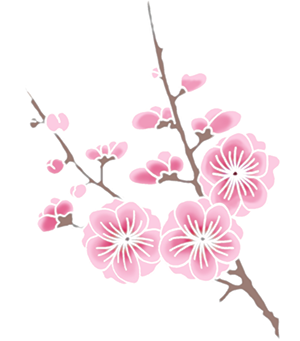
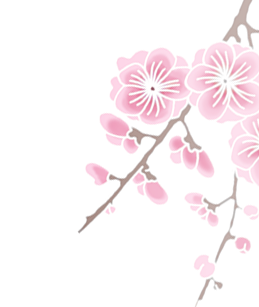
offest images fixed homepage complete

diff --git a/BrightenCommunities/Content/Site.min.css b/BrightenCommunities/Content/Site.min.css
@@ -1,1 +1,1 @@
-@font-face{font-family:'permanent_markerregular';src:url("fonts/permanentmarker-regular-webfont.woff2") format("woff2"),url("fonts/permanentmarker-regular-webfont.woff") format("woff");font-weight:normal;font-style:normal;}@font-face{font-family:'amatic_scregular';src:url("fonts/amaticsc-regular-webfont.woff2") format("woff2"),url("fonts/amaticsc-regular-webfont.woff") format("woff");font-weight:normal;font-style:normal;}@font-face{font-family:'titilliumregular';src:url("fonts/titillium-regular-webfont.woff2") format("woff2"),url("fonts/titillium-regular-webfont.woff") format("woff");font-weight:normal;font-style:normal;}#header .banner{position:relative;background-image:url("images/header-bg.png");background-repeat:no-repeat;background-size:cover;width:100%;height:300px;margin-top:-50px;}#header .sun{position:absolute;left:-5%;top:-35%;}#header .banner-text{position:absolute;top:0;right:3%;}@media(min-width:1024px) and (max-width:1200px){#header .banner-text{right:13%;}}@media(max-width:480px){#header .banner-text{right:-1.5%;margin-top:45px;}}#header .banner-text h1{font-size:72px;font-family:"permanent_markerregular",cursive;}@media(max-width:480px){#header .banner-text h1{font-size:13vw;}}#header .banner-text h1 span{padding-left:45px;}#header .banner-text h3{padding-left:115px;font-size:45px;font-family:"permanent_markerregular",cursive;}@media(max-width:480px){#header .banner-text h3{padding-left:70px;font-size:11vw;}}#header .banner-text h3 span{padding-left:65px;}@font-face{font-family:'permanent_markerregular';src:url("fonts/permanentmarker-regular-webfont.woff2") format("woff2"),url("fonts/permanentmarker-regular-webfont.woff") format("woff");font-weight:normal;font-style:normal;}@font-face{font-family:'amatic_scregular';src:url("fonts/amaticsc-regular-webfont.woff2") format("woff2"),url("fonts/amaticsc-regular-webfont.woff") format("woff");font-weight:normal;font-style:normal;}@font-face{font-family:'titilliumregular';src:url("fonts/titillium-regular-webfont.woff2") format("woff2"),url("fonts/titillium-regular-webfont.woff") format("woff");font-weight:normal;font-style:normal;}.col-centered{display:block;margin:0 auto;float:none;}.relative{position:relative;}h2,h3{font-size:52px;font-family:"amatic_scregular";}.no-padding{padding:0;}.centerBlock{display:table;margin:auto;}.m-top-25{margin-top:25px;}body::-webkit-scrollbar{width:1em;}body::-webkit-scrollbar-track{-webkit-box-shadow:inset 0 0 6px rgba(0,0,0,.3);}body::-webkit-scrollbar-thumb{background-color:#a9a9a9;outline:1px solid #708090;}@font-face{font-family:'permanent_markerregular';src:url("fonts/permanentmarker-regular-webfont.woff2") format("woff2"),url("fonts/permanentmarker-regular-webfont.woff") format("woff");font-weight:normal;font-style:normal;}@font-face{font-family:'amatic_scregular';src:url("fonts/amaticsc-regular-webfont.woff2") format("woff2"),url("fonts/amaticsc-regular-webfont.woff") format("woff");font-weight:normal;font-style:normal;}@font-face{font-family:'titilliumregular';src:url("fonts/titillium-regular-webfont.woff2") format("woff2"),url("fonts/titillium-regular-webfont.woff") format("woff");font-weight:normal;font-style:normal;}@font-face{font-family:'permanent_markerregular';src:url("fonts/permanentmarker-regular-webfont.woff2") format("woff2"),url("fonts/permanentmarker-regular-webfont.woff") format("woff");font-weight:normal;font-style:normal;}@font-face{font-family:'amatic_scregular';src:url("fonts/amaticsc-regular-webfont.woff2") format("woff2"),url("fonts/amaticsc-regular-webfont.woff") format("woff");font-weight:normal;font-style:normal;}@font-face{font-family:'titilliumregular';src:url("fonts/titillium-regular-webfont.woff2") format("woff2"),url("fonts/titillium-regular-webfont.woff") format("woff");font-weight:normal;font-style:normal;}@font-face{font-family:'permanent_markerregular';src:url("fonts/permanentmarker-regular-webfont.woff2") format("woff2"),url("fonts/permanentmarker-regular-webfont.woff") format("woff");font-weight:normal;font-style:normal;}@font-face{font-family:'amatic_scregular';src:url("fonts/amaticsc-regular-webfont.woff2") format("woff2"),url("fonts/amaticsc-regular-webfont.woff") format("woff");font-weight:normal;font-style:normal;}@font-face{font-family:'titilliumregular';src:url("fonts/titillium-regular-webfont.woff2") format("woff2"),url("fonts/titillium-regular-webfont.woff") format("woff");font-weight:normal;font-style:normal;}.col-centered{display:block;margin:0 auto;float:none;}.relative{position:relative;}h2,h3{font-size:52px;font-family:"amatic_scregular";}.no-padding{padding:0;}.centerBlock{display:table;margin:auto;}.m-top-25{margin-top:25px;}body::-webkit-scrollbar{width:1em;}body::-webkit-scrollbar-track{-webkit-box-shadow:inset 0 0 6px rgba(0,0,0,.3);}body::-webkit-scrollbar-thumb{background-color:#a9a9a9;outline:1px solid #708090;}nav ul{padding-top:0;font-family:"amatic_scregular";list-style-type:none;font-weight:bold;}nav ul li{font-size:40px;}nav ul li a{color:#000;}nav ul li a:hover{color:#000;}.navbar-inverse{background-color:transparent;border-bottom:none;}.menu-open{height:9999px;overflow:hidden;}.menu-open nav{-webkit-transform:translateX(0);transform:translateX(0);}.menu{-webkit-transition:.1s -webkit-transform linear;transition:.1s -webkit-transform linear;transition:.1s transform linear;transition:.1s transform linear,.1s -webkit-transform linear;position:relative;background:0;float:left;margin:1rem;height:2.7rem;width:3.5rem;z-index:1;outline:0;padding:0;border:0;cursor:pointer;}nav{width:100%;height:100%;background:#fff;position:fixed;-webkit-transform:translateX(-9999px);transform:translateX(-9999px);-webkit-transition:-webkit-transform .6s cubic-bezier(.56,.1,.34,.91);transition:-webkit-transform .6s cubic-bezier(.56,.1,.34,.91);transition:transform .6s cubic-bezier(.56,.1,.34,.91);transition:transform .6s cubic-bezier(.56,.1,.34,.91),-webkit-transform .6s cubic-bezier(.56,.1,.34,.91);padding-top:6.2rem;}.bar,.bar::before,.bar::after{-webkit-transition:.2s background linear .1s,.2s top linear .2s,.2s -webkit-transform linear;transition:.2s background linear .1s,.2s top linear .2s,.2s -webkit-transform linear;transition:.2s background linear .1s,.2s top linear .2s,.2s transform linear;transition:.2s background linear .1s,.2s top linear .2s,.2s transform linear,.2s -webkit-transform linear;position:absolute;background:#000;margin:auto;width:100%;height:.5rem;content:'';top:50%;left:0;}.bar{margin-top:1.2rem;width:55px;}.bar::before{top:-2rem;}.bar::after{top:2rem;}.bar::before,.bar::after{-webkit-transform:rotate(0deg);transform:rotate(0deg);}.active .bar{background:0;}.active .bar::before{-webkit-transform:rotate(45deg);transform:rotate(45deg);}.active .bar::after{-webkit-transform:rotate(-45deg);transform:rotate(-45deg);}.active .bar::before,.active .bar::after{top:0;}.active .bar,.active .bar::before,.active .bar::after{-webkit-transition:.4s background linear .1s,.2s top linear,.2s -webkit-transform linear .2s;transition:.4s background linear .1s,.2s top linear,.2s -webkit-transform linear .2s;transition:.4s background linear .1s,.2s top linear,.2s transform linear .2s;transition:.4s background linear .1s,.2s top linear,.2s transform linear .2s,.2s -webkit-transform linear .2s;}@font-face{font-family:'permanent_markerregular';src:url("fonts/permanentmarker-regular-webfont.woff2") format("woff2"),url("fonts/permanentmarker-regular-webfont.woff") format("woff");font-weight:normal;font-style:normal;}@font-face{font-family:'amatic_scregular';src:url("fonts/amaticsc-regular-webfont.woff2") format("woff2"),url("fonts/amaticsc-regular-webfont.woff") format("woff");font-weight:normal;font-style:normal;}@font-face{font-family:'titilliumregular';src:url("fonts/titillium-regular-webfont.woff2") format("woff2"),url("fonts/titillium-regular-webfont.woff") format("woff");font-weight:normal;font-style:normal;}footer{background-image:url("images/grass.png");background-repeat:no-repeat;background-size:cover;width:100%;height:175px;font-family:"titilliumregular";}footer .offset-bottom{bottom:-80%;}.btn.btn-primary{color:#000;background:#fff;border-color:#ccc;}.the-vision{margin-top:25px;}.cleaning{margin-top:25px;}.cleaning .pic-content{margin-top:25px;}.cleaning .pic-content img{width:100%;}.the-mission{margin-top:25px;}.form-horizontal{margin:10px !important;}.modal-content{width:500px;}.modal-content .close{margin:10px;color:#000;opacity:1;font-size:24px;}@font-face{font-family:'permanent_markerregular';src:url("fonts/permanentmarker-regular-webfont.woff2") format("woff2"),url("fonts/permanentmarker-regular-webfont.woff") format("woff");font-weight:normal;font-style:normal;}@font-face{font-family:'amatic_scregular';src:url("fonts/amaticsc-regular-webfont.woff2") format("woff2"),url("fonts/amaticsc-regular-webfont.woff") format("woff");font-weight:normal;font-style:normal;}@font-face{font-family:'titilliumregular';src:url("fonts/titillium-regular-webfont.woff2") format("woff2"),url("fonts/titillium-regular-webfont.woff") format("woff");font-weight:normal;font-style:normal;}.col-centered{display:block;margin:0 auto;float:none;}.relative{position:relative;}h2,h3{font-size:52px;font-family:"amatic_scregular";}.no-padding{padding:0;}.centerBlock{display:table;margin:auto;}.m-top-25{margin-top:25px;}body::-webkit-scrollbar{width:1em;}body::-webkit-scrollbar-track{-webkit-box-shadow:inset 0 0 6px rgba(0,0,0,.3);}body::-webkit-scrollbar-thumb{background-color:#a9a9a9;outline:1px solid #708090;}.blog-label{font-weight:bold;color:#000;border-top:none;margin-bottom:25px;}.blog div{border-top:solid #ccc 1px;padding:25px 0;}.offset-right-cherry-blossom{position:relative;}.offset-right-cherry-blossom .cherry-blossom{position:absolute;right:-212px;top:-190px;z-index:-1;}@media(max-width:480px){.offset-right-cherry-blossom .cherry-blossom{display:none;}}.offset-left-tulip{position:relative;}.offset-left-tulip .tulip{position:absolute;left:-142px;top:0;z-index:-1;}@media(max-width:480px){.offset-left-tulip .tulip{display:none;}}body{padding-top:50px;padding-bottom:20px;}.body-content{padding-left:15px;padding-right:15px;font-family:"titilliumregular";font-size:18px;overflow:hidden;}.dl-horizontal dt{white-space:normal;}input,select,textarea{max-width:280px;}
+@font-face{font-family:'permanent_markerregular';src:url("fonts/permanentmarker-regular-webfont.woff2") format("woff2"),url("fonts/permanentmarker-regular-webfont.woff") format("woff");font-weight:normal;font-style:normal;}@font-face{font-family:'amatic_scregular';src:url("fonts/amaticsc-regular-webfont.woff2") format("woff2"),url("fonts/amaticsc-regular-webfont.woff") format("woff");font-weight:normal;font-style:normal;}@font-face{font-family:'titilliumregular';src:url("fonts/titillium-regular-webfont.woff2") format("woff2"),url("fonts/titillium-regular-webfont.woff") format("woff");font-weight:normal;font-style:normal;}#header .banner{position:relative;background-image:url("images/header-bg.png");background-repeat:no-repeat;background-size:cover;width:100%;height:300px;margin-top:-50px;}#header .sun{position:absolute;left:-5%;top:-35%;}@media(max-width:480px){#header .sun img{width:100%;}}#header .banner-text{position:absolute;top:0;right:3%;}@media(min-width:1024px) and (max-width:1200px){#header .banner-text{right:13%;}}@media(max-width:480px){#header .banner-text{right:-1.5%;margin-top:45px;}}#header .banner-text h1{font-size:72px;font-family:"permanent_markerregular",cursive;}@media(max-width:480px){#header .banner-text h1{font-size:13vw;}}#header .banner-text h1 span{padding-left:45px;}#header .banner-text h3{padding-left:115px;font-size:45px;font-family:"permanent_markerregular",cursive;}@media(max-width:480px){#header .banner-text h3{padding-left:70px;font-size:11vw;}}#header .banner-text h3 span{padding-left:65px;}@font-face{font-family:'permanent_markerregular';src:url("fonts/permanentmarker-regular-webfont.woff2") format("woff2"),url("fonts/permanentmarker-regular-webfont.woff") format("woff");font-weight:normal;font-style:normal;}@font-face{font-family:'amatic_scregular';src:url("fonts/amaticsc-regular-webfont.woff2") format("woff2"),url("fonts/amaticsc-regular-webfont.woff") format("woff");font-weight:normal;font-style:normal;}@font-face{font-family:'titilliumregular';src:url("fonts/titillium-regular-webfont.woff2") format("woff2"),url("fonts/titillium-regular-webfont.woff") format("woff");font-weight:normal;font-style:normal;}.col-centered{display:block;margin:0 auto;float:none;}.relative{position:relative;}h2,h3{font-size:52px;font-family:"amatic_scregular";}.no-padding{padding:0;}.centerBlock{display:table;margin:auto;}.m-top-25{margin-top:25px;}body::-webkit-scrollbar{width:1em;}body::-webkit-scrollbar-track{-webkit-box-shadow:inset 0 0 6px rgba(0,0,0,.3);}body::-webkit-scrollbar-thumb{background-color:#a9a9a9;outline:1px solid #708090;}@font-face{font-family:'permanent_markerregular';src:url("fonts/permanentmarker-regular-webfont.woff2") format("woff2"),url("fonts/permanentmarker-regular-webfont.woff") format("woff");font-weight:normal;font-style:normal;}@font-face{font-family:'amatic_scregular';src:url("fonts/amaticsc-regular-webfont.woff2") format("woff2"),url("fonts/amaticsc-regular-webfont.woff") format("woff");font-weight:normal;font-style:normal;}@font-face{font-family:'titilliumregular';src:url("fonts/titillium-regular-webfont.woff2") format("woff2"),url("fonts/titillium-regular-webfont.woff") format("woff");font-weight:normal;font-style:normal;}@font-face{font-family:'permanent_markerregular';src:url("fonts/permanentmarker-regular-webfont.woff2") format("woff2"),url("fonts/permanentmarker-regular-webfont.woff") format("woff");font-weight:normal;font-style:normal;}@font-face{font-family:'amatic_scregular';src:url("fonts/amaticsc-regular-webfont.woff2") format("woff2"),url("fonts/amaticsc-regular-webfont.woff") format("woff");font-weight:normal;font-style:normal;}@font-face{font-family:'titilliumregular';src:url("fonts/titillium-regular-webfont.woff2") format("woff2"),url("fonts/titillium-regular-webfont.woff") format("woff");font-weight:normal;font-style:normal;}@font-face{font-family:'permanent_markerregular';src:url("fonts/permanentmarker-regular-webfont.woff2") format("woff2"),url("fonts/permanentmarker-regular-webfont.woff") format("woff");font-weight:normal;font-style:normal;}@font-face{font-family:'amatic_scregular';src:url("fonts/amaticsc-regular-webfont.woff2") format("woff2"),url("fonts/amaticsc-regular-webfont.woff") format("woff");font-weight:normal;font-style:normal;}@font-face{font-family:'titilliumregular';src:url("fonts/titillium-regular-webfont.woff2") format("woff2"),url("fonts/titillium-regular-webfont.woff") format("woff");font-weight:normal;font-style:normal;}.col-centered{display:block;margin:0 auto;float:none;}.relative{position:relative;}h2,h3{font-size:52px;font-family:"amatic_scregular";}.no-padding{padding:0;}.centerBlock{display:table;margin:auto;}.m-top-25{margin-top:25px;}body::-webkit-scrollbar{width:1em;}body::-webkit-scrollbar-track{-webkit-box-shadow:inset 0 0 6px rgba(0,0,0,.3);}body::-webkit-scrollbar-thumb{background-color:#a9a9a9;outline:1px solid #708090;}nav ul{padding-top:0;font-family:"amatic_scregular";list-style-type:none;font-weight:bold;}nav ul li{font-size:40px;}nav ul li a{color:#000;}nav ul li a:hover{color:#000;}.navbar-inverse{background-color:transparent;border-bottom:none;}.menu-open{height:9999px;overflow:hidden;}.menu-open nav{-webkit-transform:translateX(0);transform:translateX(0);}.menu{-webkit-transition:.1s -webkit-transform linear;transition:.1s -webkit-transform linear;transition:.1s transform linear;transition:.1s transform linear,.1s -webkit-transform linear;position:relative;background:0;float:left;margin:1rem;height:2.7rem;width:3.5rem;z-index:1;outline:0;padding:0;border:0;cursor:pointer;}nav{width:100%;height:100%;background:#fff;position:fixed;-webkit-transform:translateX(-9999px);transform:translateX(-9999px);-webkit-transition:-webkit-transform .6s cubic-bezier(.56,.1,.34,.91);transition:-webkit-transform .6s cubic-bezier(.56,.1,.34,.91);transition:transform .6s cubic-bezier(.56,.1,.34,.91);transition:transform .6s cubic-bezier(.56,.1,.34,.91),-webkit-transform .6s cubic-bezier(.56,.1,.34,.91);padding-top:6.2rem;}.bar,.bar::before,.bar::after{-webkit-transition:.2s background linear .1s,.2s top linear .2s,.2s -webkit-transform linear;transition:.2s background linear .1s,.2s top linear .2s,.2s -webkit-transform linear;transition:.2s background linear .1s,.2s top linear .2s,.2s transform linear;transition:.2s background linear .1s,.2s top linear .2s,.2s transform linear,.2s -webkit-transform linear;position:absolute;background:#000;margin:auto;width:100%;height:.5rem;content:'';top:50%;left:0;}.bar{margin-top:1.2rem;width:55px;}.bar::before{top:-2rem;}.bar::after{top:2rem;}.bar::before,.bar::after{-webkit-transform:rotate(0deg);transform:rotate(0deg);}.active .bar{background:0;}.active .bar::before{-webkit-transform:rotate(45deg);transform:rotate(45deg);}.active .bar::after{-webkit-transform:rotate(-45deg);transform:rotate(-45deg);}.active .bar::before,.active .bar::after{top:0;}.active .bar,.active .bar::before,.active .bar::after{-webkit-transition:.4s background linear .1s,.2s top linear,.2s -webkit-transform linear .2s;transition:.4s background linear .1s,.2s top linear,.2s -webkit-transform linear .2s;transition:.4s background linear .1s,.2s top linear,.2s transform linear .2s;transition:.4s background linear .1s,.2s top linear,.2s transform linear .2s,.2s -webkit-transform linear .2s;}@font-face{font-family:'permanent_markerregular';src:url("fonts/permanentmarker-regular-webfont.woff2") format("woff2"),url("fonts/permanentmarker-regular-webfont.woff") format("woff");font-weight:normal;font-style:normal;}@font-face{font-family:'amatic_scregular';src:url("fonts/amaticsc-regular-webfont.woff2") format("woff2"),url("fonts/amaticsc-regular-webfont.woff") format("woff");font-weight:normal;font-style:normal;}@font-face{font-family:'titilliumregular';src:url("fonts/titillium-regular-webfont.woff2") format("woff2"),url("fonts/titillium-regular-webfont.woff") format("woff");font-weight:normal;font-style:normal;}footer{background-image:url("images/grass.png");background-repeat:no-repeat;background-size:cover;width:100%;height:175px;font-family:"titilliumregular";}footer .offset-bottom{bottom:-80%;}.btn.btn-primary{color:#000;background:#fff;border-color:#ccc;}.the-vision{margin-top:25px;}@media(max-width:480px){.the-vision{margin-top:55px;}}.cleaning{margin-top:25px;}.cleaning .pic-content{margin-top:25px;}.cleaning .pic-content img{width:100%;}.the-mission{margin-top:25px;}.form-horizontal{margin:10px !important;}@media(max-width:480px){.form-horizontal{width:100%;}}.modal-content{width:500px;}@media(max-width:480px){.modal-content{width:100%;}}.modal-content .close{margin:10px;color:#000;opacity:1;font-size:24px;}@font-face{font-family:'permanent_markerregular';src:url("fonts/permanentmarker-regular-webfont.woff2") format("woff2"),url("fonts/permanentmarker-regular-webfont.woff") format("woff");font-weight:normal;font-style:normal;}@font-face{font-family:'amatic_scregular';src:url("fonts/amaticsc-regular-webfont.woff2") format("woff2"),url("fonts/amaticsc-regular-webfont.woff") format("woff");font-weight:normal;font-style:normal;}@font-face{font-family:'titilliumregular';src:url("fonts/titillium-regular-webfont.woff2") format("woff2"),url("fonts/titillium-regular-webfont.woff") format("woff");font-weight:normal;font-style:normal;}.col-centered{display:block;margin:0 auto;float:none;}.relative{position:relative;}h2,h3{font-size:52px;font-family:"amatic_scregular";}.no-padding{padding:0;}.centerBlock{display:table;margin:auto;}.m-top-25{margin-top:25px;}body::-webkit-scrollbar{width:1em;}body::-webkit-scrollbar-track{-webkit-box-shadow:inset 0 0 6px rgba(0,0,0,.3);}body::-webkit-scrollbar-thumb{background-color:#a9a9a9;outline:1px solid #708090;}.blog-label{font-weight:bold;color:#000;border-top:none;margin-bottom:25px;}.blog div{border-top:solid #ccc 1px;padding:25px 0;}.offset-right-cherry-blossom{position:relative;}.offset-right-cherry-blossom .cherry-blossom{position:absolute;right:-50px;top:-225px;z-index:-1;}@media(max-width:767px){.offset-right-cherry-blossom .cherry-blossom{display:none;}}.offset-right-cherry-blossom .cherry-blossom img{width:100%;}.offset-left-tulip{position:relative;}.offset-left-tulip .tulip{position:absolute;left:-142px;top:0;z-index:-1;}@media(max-width:480px){.offset-left-tulip .tulip{display:none;}}.offset-left-tulip .tulip img{width:100%;}body{padding-top:50px;padding-bottom:20px;}.body-content{padding-left:15px;padding-right:15px;font-family:"titilliumregular";font-size:18px;}.dl-horizontal dt{white-space:normal;}input,select,textarea{max-width:280px;}

diff --git a/BrightenCommunities/Content/Site.css b/BrightenCommunities/Content/Site.css
@@ -29,6 +29,9 @@
   position: absolute;
   left: -5%;
   top: -35%; }
+  @media (max-width: 480px) {
+    #header .sun img {
+      width: 100%; } }
 
 #header .banner-text {
   position: absolute;
@@ -333,6 +336,9 @@ footer {
 
 .the-vision {
   margin-top: 25px; }
+  @media (max-width: 480px) {
+    .the-vision {
+      margin-top: 55px; } }
 
 .cleaning {
   margin-top: 25px; }
@@ -346,9 +352,15 @@ footer {
 
 .form-horizontal {
   margin: 10px !important; }
+  @media (max-width: 480px) {
+    .form-horizontal {
+      width: 100%; } }
 
 .modal-content {
   width: 500px; }
+  @media (max-width: 480px) {
+    .modal-content {
+      width: 100%; } }
   .modal-content .close {
     margin: 10px;
     color: #000;
@@ -419,12 +431,14 @@ body::-webkit-scrollbar-thumb {
   position: relative; }
   .offset-right-cherry-blossom .cherry-blossom {
     position: absolute;
-    right: -212px;
-    top: -190px;
+    right: -50px;
+    top: -225px;
     z-index: -1; }
-    @media (max-width: 480px) {
+    @media (max-width: 767px) {
       .offset-right-cherry-blossom .cherry-blossom {
         display: none; } }
+    .offset-right-cherry-blossom .cherry-blossom img {
+      width: 100%; }
 
 .offset-left-tulip {
   position: relative; }
@@ -436,6 +450,8 @@ body::-webkit-scrollbar-thumb {
     @media (max-width: 480px) {
       .offset-left-tulip .tulip {
         display: none; } }
+    .offset-left-tulip .tulip img {
+      width: 100%; }
 
 body {
   padding-top: 50px;
@@ -446,8 +462,7 @@ body {
   padding-left: 15px;
   padding-right: 15px;
   font-family: "titilliumregular";
-  font-size: 18px;
-  overflow: hidden; }
+  font-size: 18px; }
 
 /* Override the default bootstrap behavior where horizontal description lists 
    will truncate terms that are too long to fit in the left column 

diff --git a/BrightenCommunities/Content/scss/pages/offset-images.scss b/BrightenCommunities/Content/scss/pages/offset-images.scss
@@ -1,14 +1,18 @@
-.offset-right-cherry-blossom {
-    position: relative;
+.offset-right-cherry-blossom {    
+    position: relative; 
 
     .cherry-blossom {
         position: absolute;
-        right: -212px;
-        top: -190px;
+        right: -50px;
+        top: -225px;
         z-index: -1;
 
-        @media (max-width: 480px) {
+        @media (max-width: 767px) {
             display: none;
+        }
+
+        img {
+            width: 100%;
         }
     }
 }
@@ -24,6 +28,10 @@
 
         @media (max-width: 480px) {
             display: none;
+        }
+
+        img {
+            width: 100%;
         }
     }
 }

diff --git a/BrightenCommunities/Content/scss/pages/modal.scss b/BrightenCommunities/Content/scss/pages/modal.scss
@@ -1,10 +1,18 @@
 
 .form-horizontal {
     margin: 10px !important;
+
+    @media (max-width: 480px) {
+        width: 100%;
+    }
 }
 
 .modal-content {
     width: 500px;
+
+    @media (max-width: 480px) {
+        width: 100%;
+    }
 
     .close {
         margin: 10px;

diff --git a/BrightenCommunities/Content/scss/header.scss b/BrightenCommunities/Content/scss/header.scss
@@ -15,6 +15,12 @@
         position: absolute;
         left: -5%;
         top: -35%;
+
+        img {
+            @media (max-width: 480px) {
+                width: 100%;
+            }
+        }
     }
 
     .banner-text {

diff --git a/BrightenCommunities/Content/Site.scss b/BrightenCommunities/Content/Site.scss
@@ -17,7 +17,6 @@ body {
     padding-right: 15px;
     font-family: $body-font;
     font-size:$body-font-size;
-    overflow: hidden;
 }
 
 /* Override the default bootstrap behavior where horizontal description lists 

diff --git a/BrightenCommunities/Content/scss/pages/home.scss b/BrightenCommunities/Content/scss/pages/home.scss
@@ -1,5 +1,9 @@
 .the-vision {
     margin-top: 25px;
+
+    @media (max-width: 480px) {
+        margin-top: 55px;
+    }
 }
 
 
